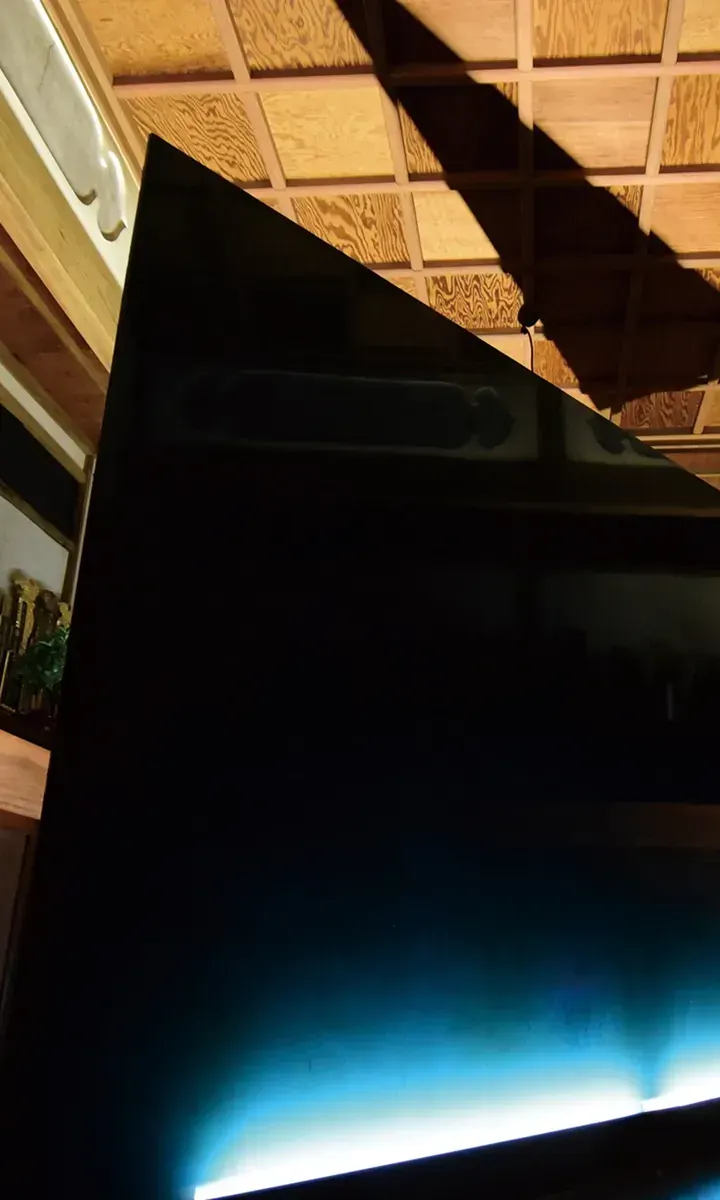
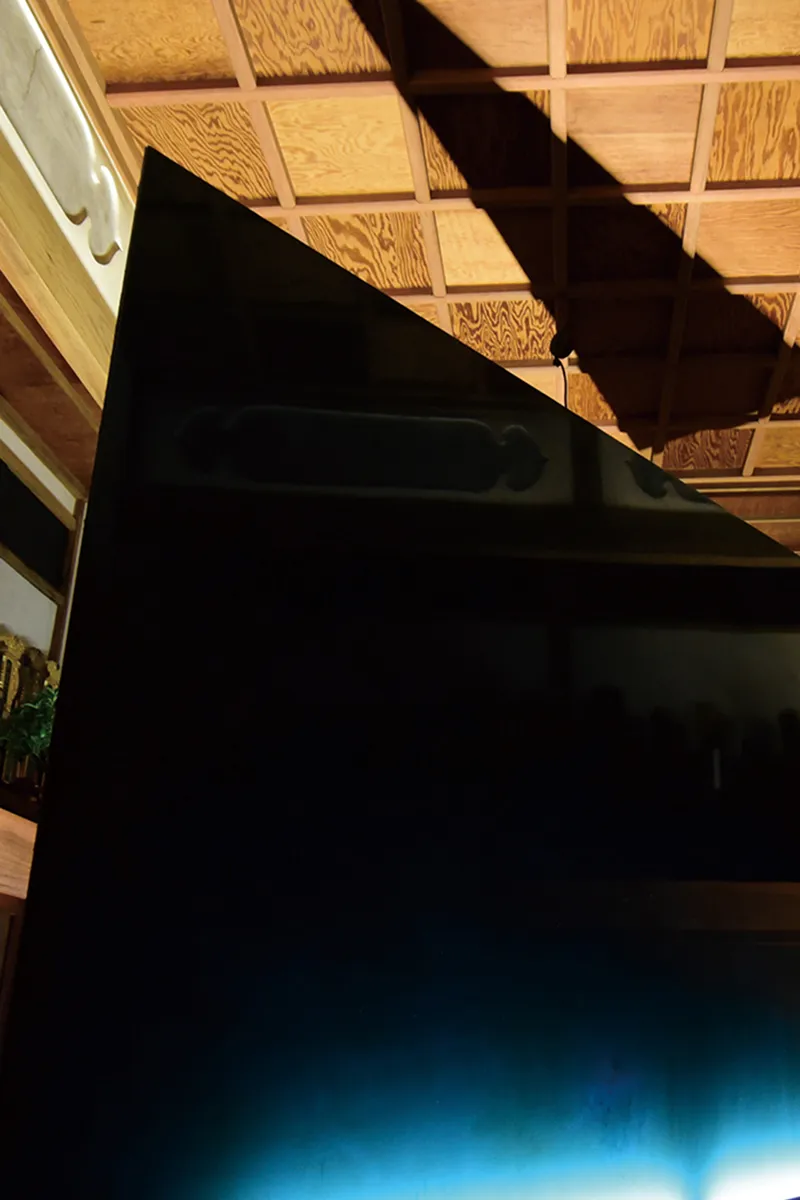
Add files via upload

diff --git a/style.css b/style.css
@@ -2,7 +2,7 @@
 :root{
   --bg:#fff;--fg:#111;--muted:#858585;--line:#e7e7e7;
   --gutter:clamp(18px,3vw,42px);
-  --home-hero-w:60svh;
+  --home-hero-w:75svh;
   --serif:"Bodoni 72",Didot,"Bodoni MT","Times New Roman",serif;
   --brand-serif:"貂明朝","Ten Mincho","Hiragino Mincho ProN","Yu Mincho",serif;
   --sans:"Helvetica Neue",Arial,"Hiragino Kaku Gothic ProN","Yu Gothic",Meiryo,sans-serif;
@@ -21,7 +21,7 @@
 .menu-links a{font-family:var(--sans);font-size:11px;line-height:1.25;letter-spacing:.13em;padding:11px 16px}
 .menu-links a:hover{background:#f5f5f5;opacity:1}
 /* HOME */
-.home-shell{min-height:100svh;display:grid;grid-template-columns:minmax(0,1fr) var(--home-hero-w);background:#fff}.home-field{grid-column:1;grid-row:1;min-height:100svh;position:relative;display:flex;flex-direction:column;padding:82px var(--gutter) 22px}.home-spacer{flex:1}.home-footer-wrap{max-width:610px}.hero-rail{grid-column:2;grid-row:1;position:relative;width:var(--home-hero-w);height:100svh;overflow:hidden;background:#111}.hero-slide{position:absolute;inset:0;opacity:0;transition:opacity 2.4s ease;overflow:hidden}.hero-slide.is-active{opacity:1}.hero-slide img{width:100%;height:100%;object-fit:contain;object-position:center center}.site-footer{font-size:9.5px;line-height:1.55;color:#6f6f6f;padding:22px var(--gutter) 26px}.home-field .site-footer{padding:0}.mobile-home-footer{display:none}.site-footer p{margin:0 0 5px}.copyright{letter-spacing:.05em}.footer-copy{max-width:660px}.footer-bilingual p{margin:0 0 4px}.footer-bilingual p:last-child{margin-bottom:0}
+.home-shell{min-height:100svh;display:grid;grid-template-columns:minmax(0,1fr) var(--home-hero-w);background:#fff}.home-field{grid-column:1;grid-row:1;min-height:100svh;position:relative;display:flex;flex-direction:column;padding:82px var(--gutter) 22px}.home-spacer{flex:1}.home-footer-wrap{max-width:610px}.hero-rail{grid-column:2;grid-row:1;position:relative;width:var(--home-hero-w);height:100svh;overflow:hidden;background:#fff}.hero-slide{position:absolute;inset:0;opacity:0;transition:opacity 2.4s ease;overflow:hidden}.hero-slide.is-active{opacity:1}.hero-slide img{position:absolute;right:0;top:0;width:auto;max-width:none;height:100%;object-fit:contain;object-position:center center}.site-footer{font-size:9.5px;line-height:1.55;color:#6f6f6f;padding:22px var(--gutter) 26px}.home-field .site-footer{padding:0}.mobile-home-footer{display:none}.site-footer p{margin:0 0 5px}.copyright{letter-spacing:.05em}.footer-copy{max-width:660px}.footer-bilingual p{margin:0 0 4px}.footer-bilingual p:last-child{margin-bottom:0}
 /* Shared internal page */
 .page-inner .site-header,.page-about .site-header{background:rgba(255,255,255,.94);backdrop-filter:blur(8px);border-bottom:1px solid rgba(0,0,0,.055)}.wide-page{padding:112px var(--gutter) 80px;max-width:1680px;margin:0 auto}.simple-head{padding:18px 0 62px}.simple-head h1{font-size:13px;font-weight:500;letter-spacing:.13em;margin:0}.page-inner>.site-footer{border-top:1px solid var(--line);margin-top:30px}
 /* WORKS */
@@ -73,7 +73,7 @@
 @media(max-width:1020px){.works-grid{grid-template-columns:repeat(3,minmax(0,1fr))}.about-layout{grid-template-columns:minmax(0,1fr) 27%}.about-copy{padding-left:32px;padding-right:32px}}
 @media(max-width:760px){
   .site-header{height:58px;padding-top:12px}.brand{font-size:20px}.header-actions{gap:14px}.lang-switch{font-size:14px}.lang-choice{padding:6px 0}.menu-btn{width:40px;height:31px}.menu-btn span{width:40px;height:1.8px}.menu-btn span:first-child{top:9px}.menu-btn span:last-child{top:19px}.menu-btn[aria-expanded="true"] span:first-child{top:15px}.menu-btn[aria-expanded="true"] span:last-child{top:15px}.page-home .site-header{display:flex;padding-left:var(--gutter);padding-right:var(--gutter);background:rgba(255,255,255,.9);backdrop-filter:blur(8px)}.page-home .brand{padding-left:0;font-size:20px;letter-spacing:.09em;line-height:1;transform:none}.page-home .header-actions{position:static;color:#111;text-shadow:none}
-  .home-shell{display:block;min-height:auto;padding-top:58px}.home-field{display:none}.home-spacer{display:none}.home-footer-wrap{display:none}.hero-rail{min-height:72svh;width:100%;background:#111}.hero-slide img{object-fit:contain;object-position:center top;transform:translateX(-180px)}.mobile-home-footer{display:block}.mobile-home-footer .site-footer{padding:20px var(--gutter) 26px}
+  .home-shell{display:block;min-height:auto;padding-top:58px}.home-field{display:none}.home-spacer{display:none}.home-footer-wrap{display:none}.hero-rail{min-height:72svh;width:100%;background:#111}.hero-slide img{position:static;width:100%;max-width:100%;height:100%;object-fit:contain;object-position:center top;transform:translateX(-180px)}.mobile-home-footer{display:block}.mobile-home-footer .site-footer{padding:20px var(--gutter) 26px}
   .wide-page{padding-top:90px}.works-grid{grid-template-columns:repeat(2,minmax(0,1fr));gap:36px 10px}.work-tile figcaption{font-size:9px;display:block}.work-tile figcaption span{display:block}.simple-head{padding-bottom:36px}
   .project-row{grid-template-columns:1fr 18px;gap:12px;padding:22px 0}.project-meta{grid-column:1;grid-row:2}.project-arrow{grid-column:2;grid-row:1}.project-title{font-size:32px}
   .about-layout{display:block}.about-band{position:relative;top:auto;height:44svh;order:-1}.about-copy{padding:82px var(--gutter) 0}.about-intro{padding:8px 0 34px;display:block}.about-intro h1{font-size:42px;margin-top:26px}.about-anchor-nav{margin-top:18px;gap:18px;flex-wrap:wrap}.about-section{padding:52px 0 66px}.about-section>h2{margin-bottom:30px}.prose{font-size:13.5px;line-height:1.84}.cv-list li{grid-template-columns:72px minmax(0,1fr);gap:12px;font-size:11.5px}.cv-list small{font-size:10px}.page-about .about-layout{display:flex;flex-direction:column}.page-about .about-band{order:-1;margin-top:58px}.page-about .about-copy{order:0;padding-top:46px}

diff --git a/index.html b/index.html
@@ -37,9 +37,9 @@
     </footer></div>
   </section>
   <section class="hero-rail" aria-label="Selected works">
-    <div class="hero-slide is-active"><img src="assets/hero_01_hantou.webp" alt="《半島の傷跡》 installation view" fetchpriority="high" width="1200" height="1600"></div>
-    <div class="hero-slide"><img src="assets/hero_04_volcanic_rock.webp" alt="Volcanic rock installation detail" width="1200" height="1600"></div>
-    <div class="hero-slide"><img src="assets/work_keren.webp" alt="White mountain split work" width="1200" height="1600"></div>
+    <div class="hero-slide is-active"><img src="assets/hero_01_hantou.webp" alt="《半島の傷跡》 installation view" fetchpriority="high" width="800" height="1200"></div>
+    <div class="hero-slide"><img src="assets/hero_04_volcanic_rock.webp" alt="Volcanic rock installation detail" width="900" height="1200"></div>
+    <div class="hero-slide"><img src="assets/work_keren.webp" alt="White mountain split work" width="800" height="1200"></div>
   </section>
   <div class="mobile-home-footer"><footer class="site-footer">
     <div class="footer-copy footer-bilingual">
